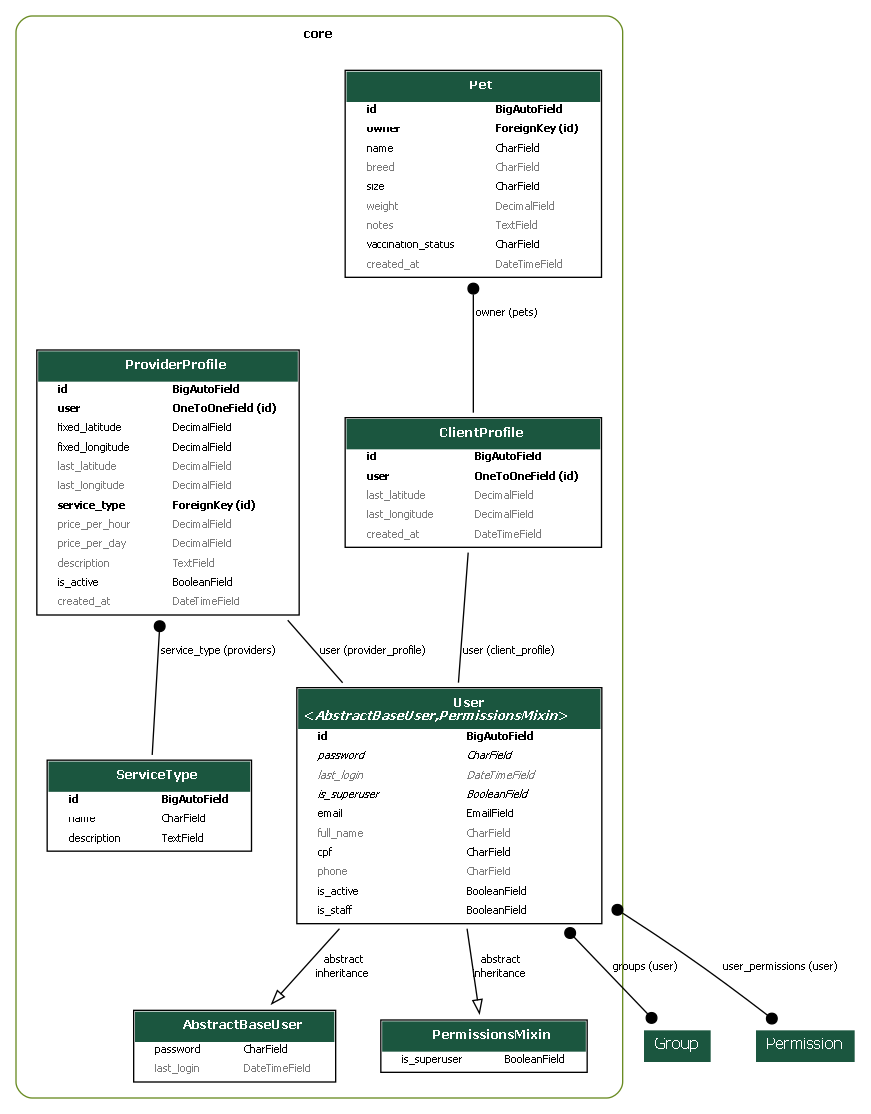
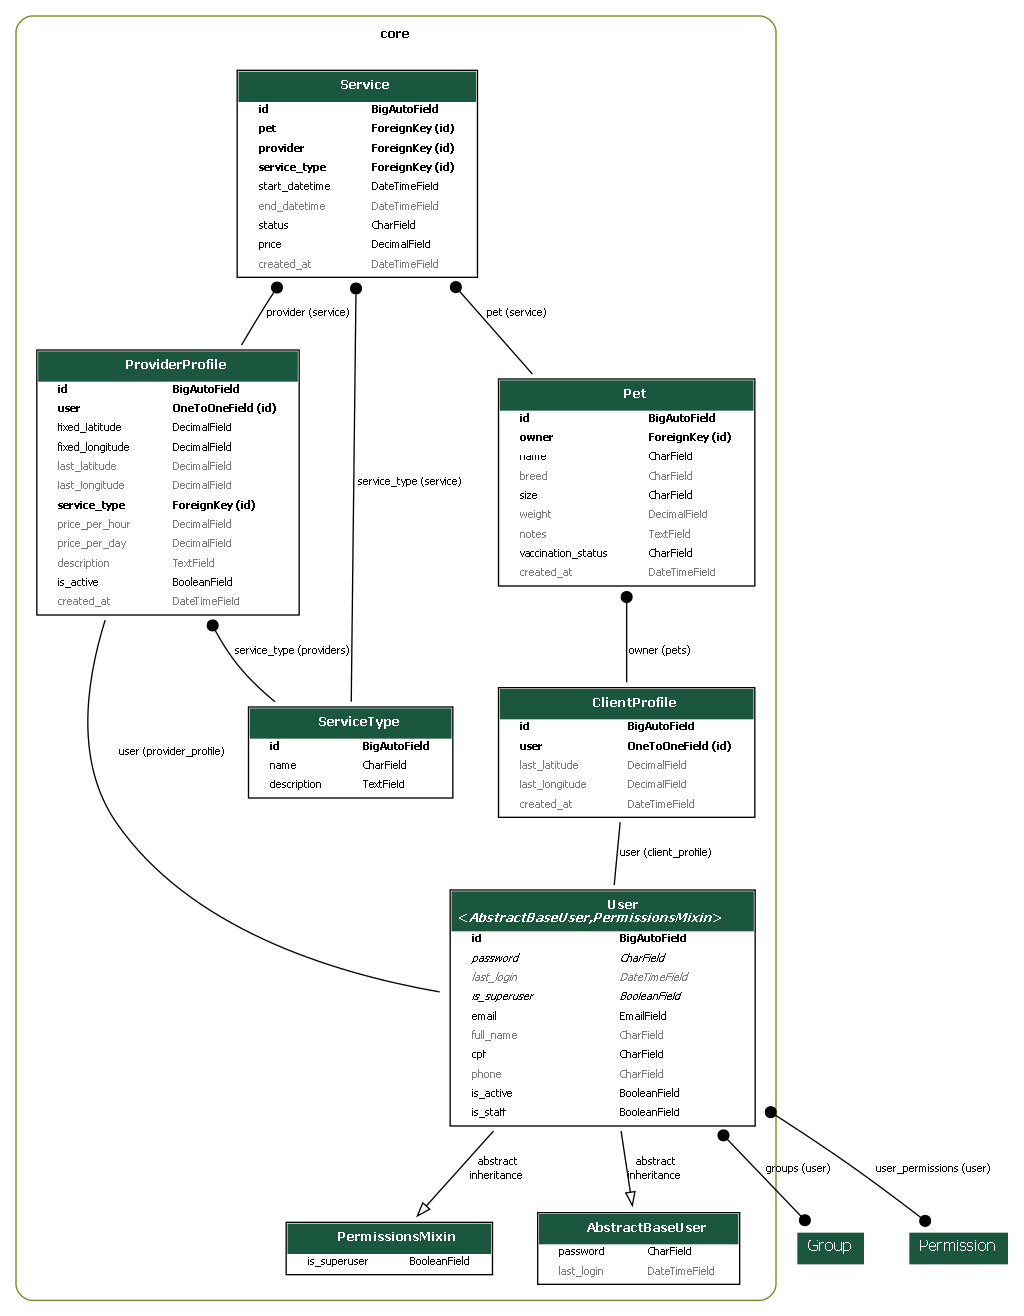
FEAT: Create Service models and register in Admin

Changed region(s): [[0.0, 0.0, 0.992, 1.0]]

diff --git a/core/migrations/0013_service.py b/core/migrations/0013_service.py
@@ -1,0 +1,28 @@
+# Generated by Django 5.2.12 on 2026-04-01 17:35
+
+import django.db.models.deletion
+from django.db import migrations, models
+
+
+class Migration(migrations.Migration):
+
+    dependencies = [
+        ('core', '0012_alter_clientprofile_created_at_and_more'),
+    ]
+
+    operations = [
+        migrations.CreateModel(
+            name='Service',
+            fields=[
+                ('id', models.BigAutoField(auto_created=True, primary_key=True, serialize=False, verbose_name='ID')),
+                ('start_datetime', models.DateTimeField()),
+                ('end_datetime', models.DateTimeField(blank=True, null=True)),
+                ('status', models.CharField(choices=[('pending', 'Pendente'), ('in_progress', 'Em andamento'), ('finished', 'Concluído')], default='pending', max_length=20)),
+                ('price', models.DecimalField(decimal_places=2, max_digits=7)),
+                ('created_at', models.DateTimeField(auto_now_add=True)),
+                ('pet', models.ForeignKey(on_delete=django.db.models.deletion.PROTECT, to='core.pet')),
+                ('provider', models.ForeignKey(on_delete=django.db.models.deletion.PROTECT, to='core.providerprofile')),
+                ('service_type', models.ForeignKey(on_delete=django.db.models.deletion.PROTECT, to='core.servicetype')),
+            ],
+        ),
+    ]

diff --git a/core/models/service.py b/core/models/service.py
@@ -7,3 +7,22 @@ class ServiceType(models.Model):
 
     def __str__(self):
         return f'({self.id}) {self.name}'
+
+
+class Service(models.Model):
+    class ServiceStatus(models.TextChoices):
+        PENDING = 'pending', 'Pendente'
+        IN_PROGRESS = 'in_progress', 'Em andamento'
+        FINISHED = 'finished', 'Concluído'
+
+    pet = models.ForeignKey('core.Pet', on_delete=models.PROTECT)
+    provider = models.ForeignKey('core.ProviderProfile', on_delete=models.PROTECT)
+    service_type = models.ForeignKey(ServiceType, on_delete=models.PROTECT)
+    start_datetime = models.DateTimeField()
+    end_datetime = models.DateTimeField(null=True, blank=True)
+    status = models.CharField(max_length=20, choices=ServiceStatus.choices, null=False, default=ServiceStatus.PENDING)
+    price = models.DecimalField(max_digits=7, decimal_places=2)
+    created_at = models.DateTimeField(auto_now_add=True)
+
+    def __str__(self):
+        return f'({self.id}) provedor: {self.provider.user.email}, pet: {self.pet}'

diff --git a/core/models/profile.py b/core/models/profile.py
@@ -1,11 +1,9 @@
 from django.core.validators import MaxValueValidator, MinValueValidator
 from django.db import models
 
-from . import ServiceType, User
-
 
 class ProviderProfile(models.Model):
-    user = models.OneToOneField(User, on_delete=models.CASCADE, related_name='provider_profile')
+    user = models.OneToOneField('core.User', on_delete=models.CASCADE, related_name='provider_profile')
     fixed_latitude = models.DecimalField(
         max_digits=9, decimal_places=6, validators=[MinValueValidator(-90), MaxValueValidator(90)]
     )
@@ -26,7 +24,7 @@ class ProviderProfile(models.Model):
         null=True,
         blank=True,
     )
-    service_type = models.ForeignKey(ServiceType, on_delete=models.CASCADE, related_name='providers')
+    service_type = models.ForeignKey('core.ServiceType', on_delete=models.CASCADE, related_name='providers')
     price_per_hour = models.DecimalField(max_digits=7, decimal_places=2, null=True, blank=True)
     price_per_day = models.DecimalField(max_digits=7, decimal_places=2, null=True, blank=True)
     description = models.TextField(null=True, blank=True)
@@ -38,7 +36,7 @@ class ProviderProfile(models.Model):
 
 
 class ClientProfile(models.Model):
-    user = models.OneToOneField(User, on_delete=models.CASCADE, related_name='client_profile')
+    user = models.OneToOneField('core.User', on_delete=models.CASCADE, related_name='client_profile')
     last_latitude = models.DecimalField(
         max_digits=9,
         decimal_places=6,

diff --git a/core/models/__init__.py b/core/models/__init__.py
@@ -1,4 +1,4 @@
 from .user import User
-from .service import ServiceType
+from .service import Service, ServiceType
 from .pet import Pet
 from .profile import ClientProfile, ProviderProfile

diff --git a/core/models/pet.py b/core/models/pet.py
@@ -24,4 +24,4 @@ class Pet(models.Model):
     created_at = models.DateTimeField(auto_now_add=True)
 
     def __str__(self):
-        return f'({self.id}) {self.name}, owner: {self.owner.user.email}'
+        return f'({self.id}) {self.name}, dono: {self.owner.user.email}'

diff --git a/core/admin.py b/core/admin.py
@@ -54,5 +54,6 @@ class UserAdmin(BaseUserAdmin):
 admin.site.register(models.ClientProfile)
 admin.site.register(models.ProviderProfile)
 admin.site.register(models.Pet)
+admin.site.register(models.Service)
 admin.site.register(models.ServiceType)
 admin.site.register(models.User, UserAdmin)